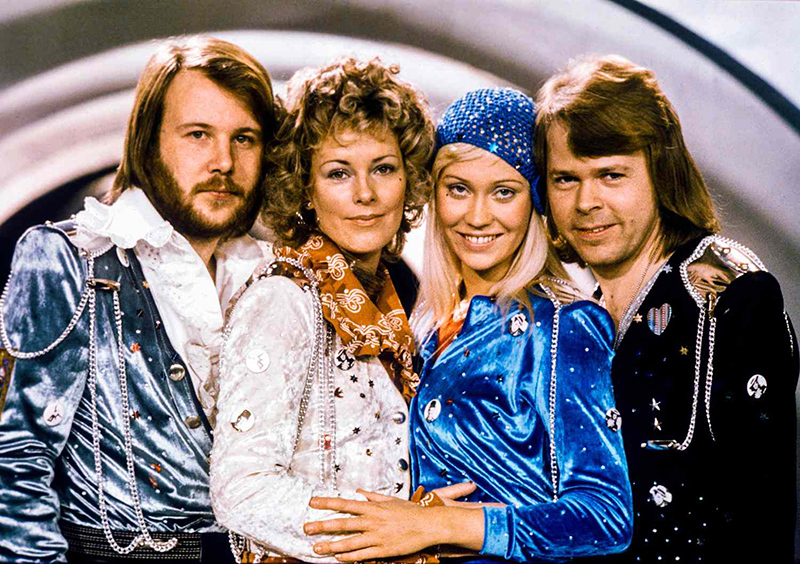
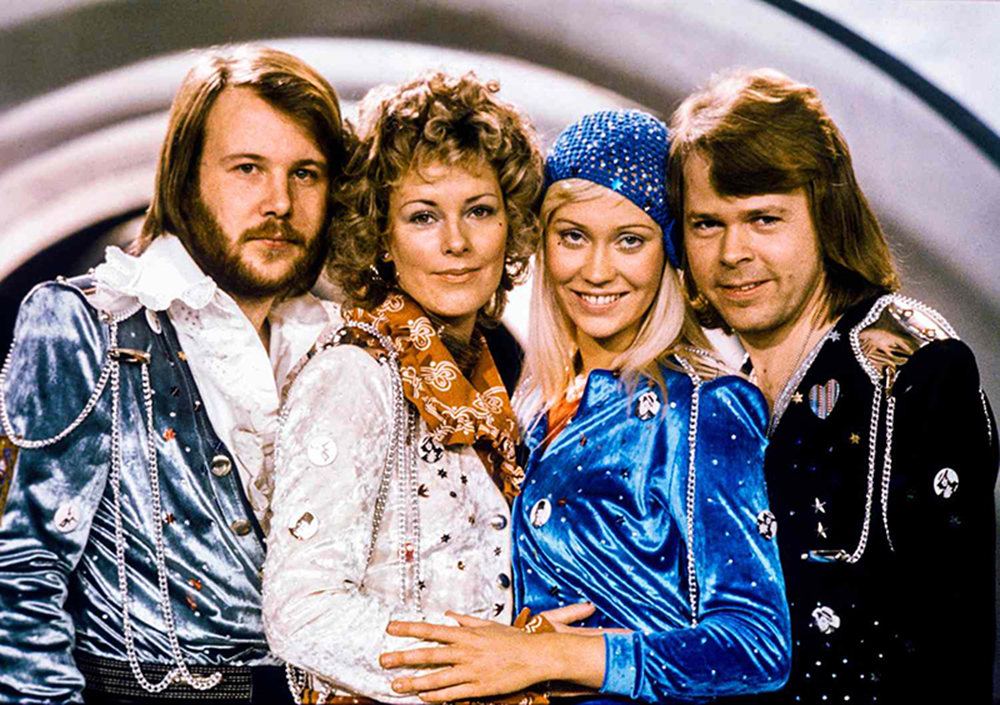
uig

diff --git a/index.html b/index.html
@@ -11,7 +11,7 @@
         <img class="logo" src="Myndir/ABBA-Logo.svg" alt="ABBA-Logo">
     </header>
     <div class="allt">
-        <main>
+        <main class="mainallt">
             <div class="col-map">
                 <iframe class="map"
             width="400" height="490"
@@ -37,12 +37,8 @@
             </div>
 
             <picture class="mynd">
-                <source media="(min-width:80rem)" srcset="Myndir/Abba-blue.jpg">
-                <source media="(min-width:60rem)" srcset="Myndir/Abba-blue.jpg">
-                <source media="(min-width:48rem)" srcset="Myndir/Abba-blue.jpg.jpg">
-                <source media="(min-width:37.5rem)" srcset="Myndir/Abba-blue.jpg.jpg">
-                <source media="(min-width:20rem)" srcset="Myndir/Abba-blue.jpg.jpg">
-                <img src="Myndir/Abba-blue.jpg" alt="ABBA">            
+                
+                <img src="Myndir/Abba-idk.jpg" alt="ABBA">            
             </picture>
             
 
